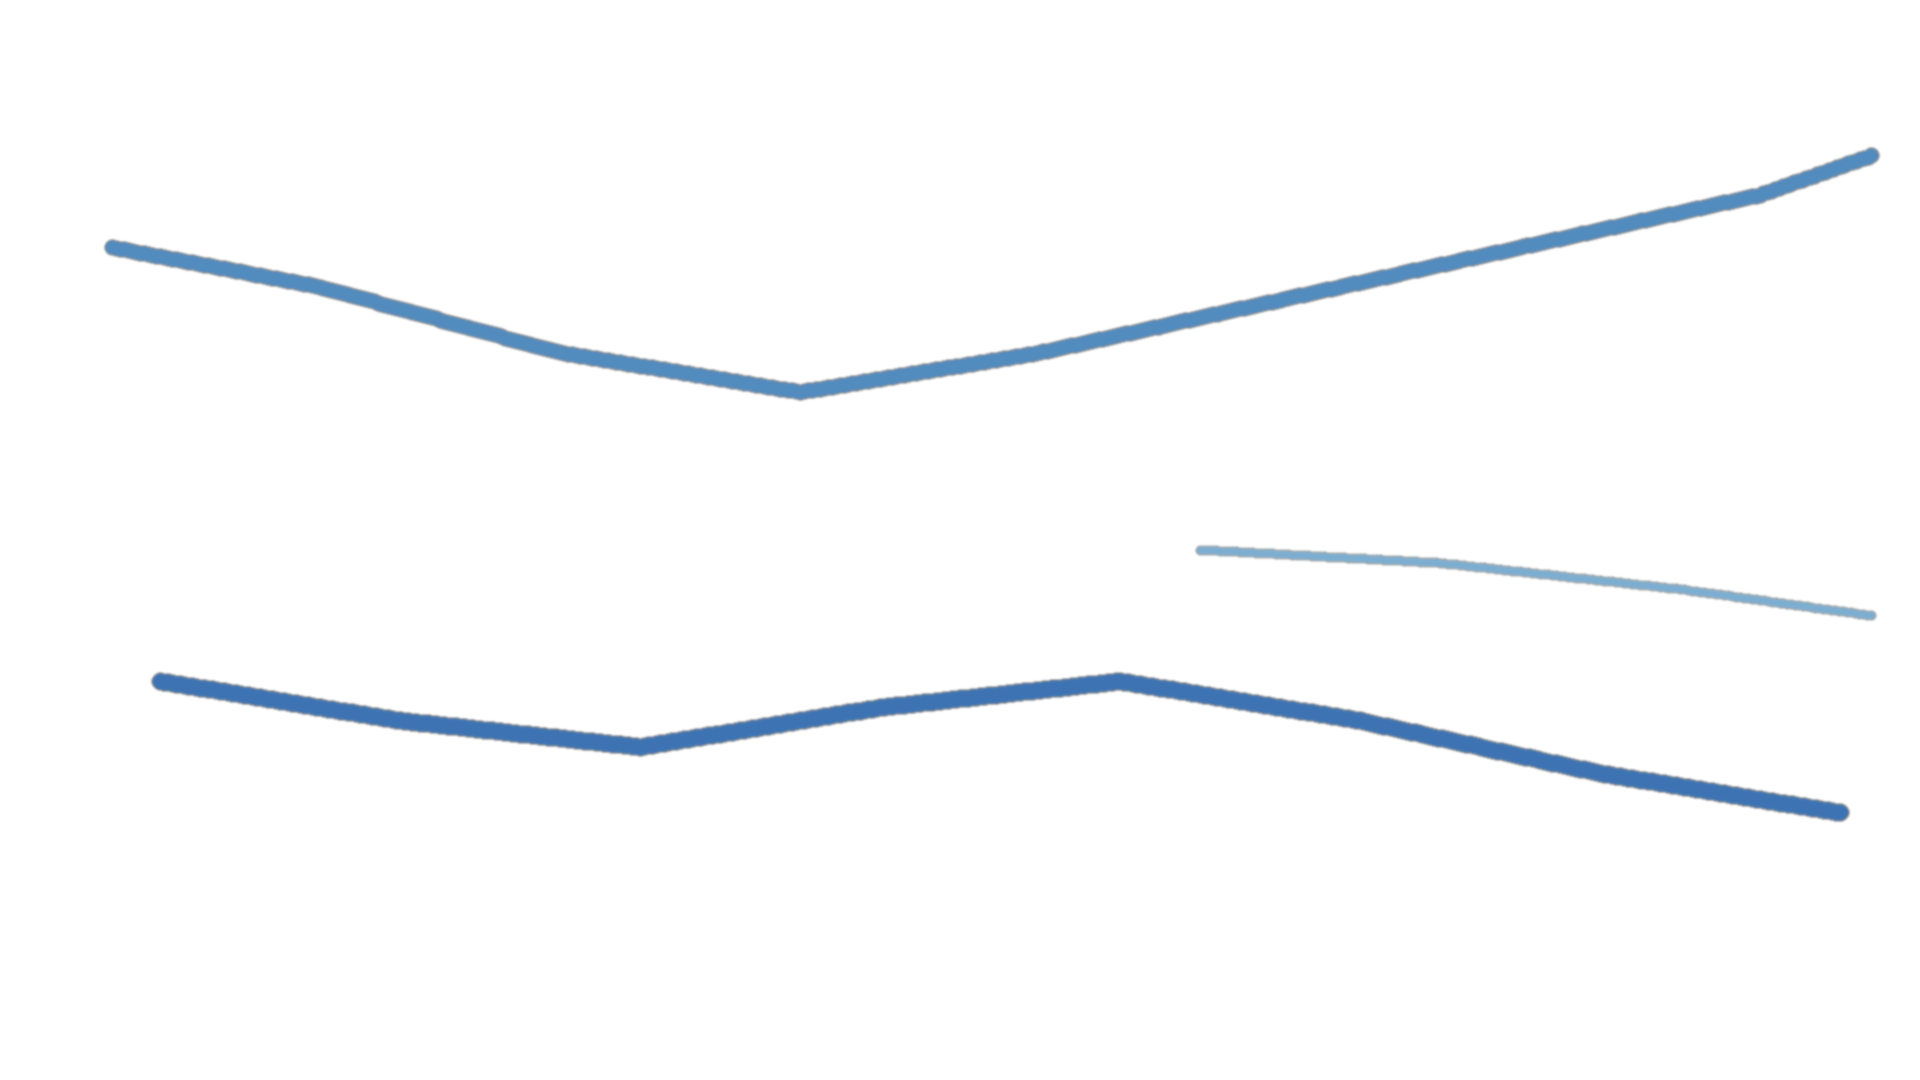
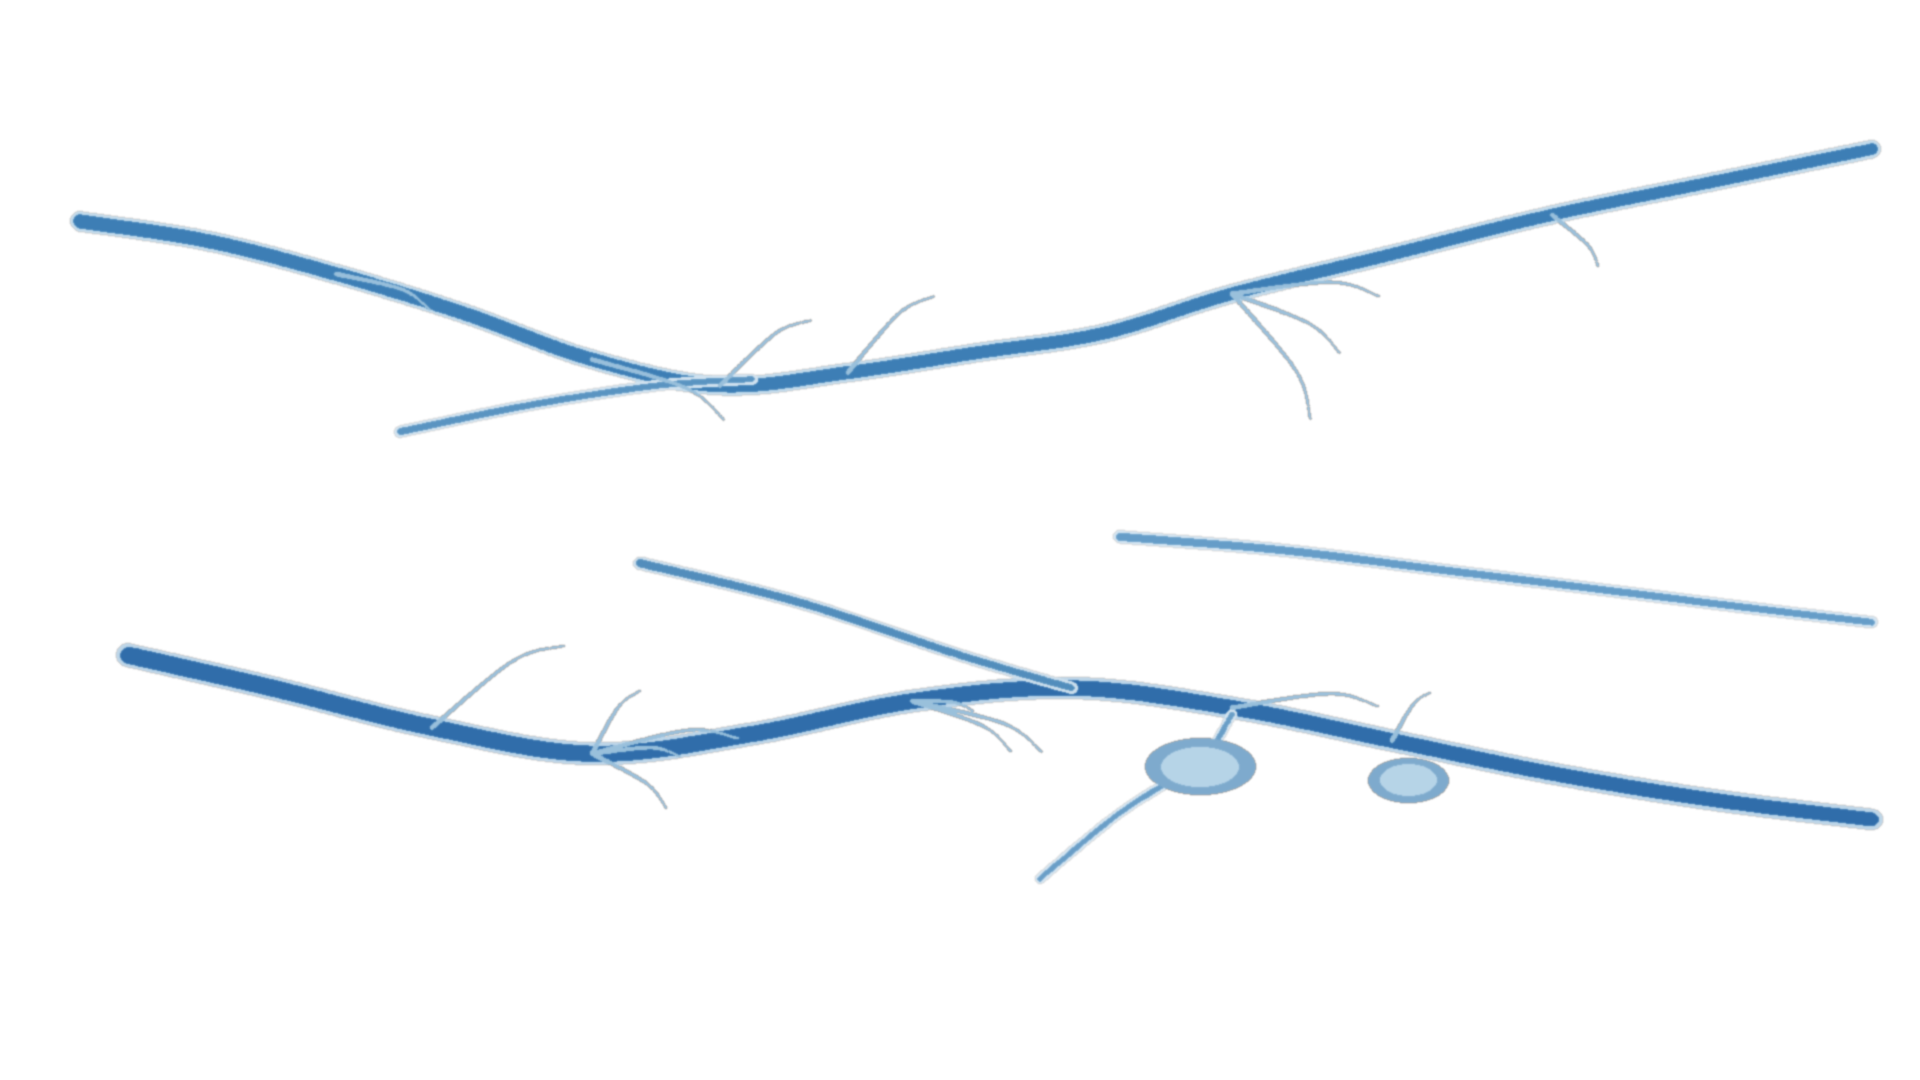
Replace HD terrain with geography pack v2.
Finer historically oriented rivers (Huang/Chang/Huai plus Wei/Han/Xiang and Dongting/Poyang-ish lakes), layered Qinling/Taihang/Nanling, and denser southern forests. Cities stay on g_CityPositions. All terrain layers remain 1920x1080 RGBA.

diff --git a/docs/hd-overworld-spec.md b/docs/hd-overworld-spec.md
@@ -3,7 +3,7 @@
 本文是 **大地图（overworld）** 的产品与技术规格。它不是 CSS 2× 放大说明书——那一层见 [hd-graphics.md](hd-graphics.md)。  
 规格与实现路径仍不替换 `dat.lib`、不伪造游戏截图。几何占位可继续用于未接线的层。
 
-**素材现状（分支内）：** `assets/hd-overworld/` 地形已换成 **史实向地理包**（见同目录 `GEOGRAPHY.md`）：西左北上，黄河偏北、长江偏南、秦岭东西向等，与引擎城格相对方位对齐，**不是**经纬度 1:1。城标仍只读 `g_CityPositions`，不随底图挪动。其它层仍是 AI 占位。**不是**步步高原作美术。  
+**素材现状（分支内）：** `assets/hd-overworld/` 地形是 **史实向地理包 v2**（见同目录 `GEOGRAPHY.md`）：西左北上，黄河/长江/淮河 + 渭水/汉水/湘水支流与洞庭/鄱阳示意湖，秦岭/太行/南岭分层，南林更密。与引擎城格相对方位对齐，**不是**经纬度 1:1。城标仍只读 `g_CityPositions`，不随底图挪动。其它层仍是 AI 占位。**不是**步步高原作美术。  
 **分支策略：本轨道只停在 `feature/hd-graphics`，在用户明确要求之前不要合入 `main`。**
 
 状态：产品方向已锁定；史实向地形已进本分支。**P0–P3 已在本分支落地（P2 partial）**：P1 城态/点选仍在；P2 在地形与城标之间画路网。邻接来自 `g_CityPositions` 的格邻接（Chebyshev≤1），不是引擎出征表。关隘只标在路中点压到河叠加处。缺口见 §8–§9 与 FEATURES.md。
@@ -266,7 +266,7 @@ P1 诚实缺口：
 
 P2 已实现：
 
-- 绘制顺序：地形（史实向 plains/mountains/rivers/forest，1920×1080）→ 路（5px 土色二次曲线）→ 城标/势力 → 城名 → 悬停/选中/入城闪（P3）。城点不随地形重绘移动
+- 绘制顺序：地形（史实向地理包 v2：plains/mountains/rivers/forest，1920×1080，河山林更细）→ 路（5px 土色二次曲线）→ 城标/势力 → 城名 → 悬停/选中/入城闪（P3）。城点不随地形重绘移动
 - 邻接优先读城对象 Exit/Link；没有则用 `adjacency.json` 里写死的边；再没有则运行时 Chebyshev≤1
 - 当前词典原版走第三条：`source=tile-neighbors`。`stroke.png`（64×16 土色）作 pattern，不行就纯色
 - 关隘：`pass.png` 只放在路中点压到河、且两端城不在河上的边上（过河）。山 overlay 误报太多，不单独标关

diff --git a/FEATURES.md b/FEATURES.md
@@ -101,7 +101,7 @@
 |------|------|------|
 | `classic` / `hd-map` 切换 | done | `localStorage['baye/overworldMode']`，默认 `classic`。首页下拉 + `pc.html` 画质条「经典地图 / HD 地图」 |
 | 1080p 容器 `#hd-overworld` | done | Canvas 2D，设计 1920×1080，窗口内 `contain`；DPR≤2 提高清 backing store |
-| 地形合成 | done | 史实向地理包：黄河偏北、长江偏南、秦岭带等，西左北上，对齐引擎城格相对方位。仍不是经纬度 1:1。城标不挪。缺文件回退椭圆大陆 |
+| 地形合成 | done | 史实向地理包 **v2**：黄河/长江/淮河 + 渭汉湘支流与洞庭/鄱阳示意湖，秦岭/太行/南岭分层，南林更密。西左北上，对齐引擎城格。仍不是经纬度 1:1。城标不挪。缺文件回退椭圆大陆 |
 | 城标四态 / 势力色 | done | empty / owned / neutral / selected 用 `cities/marker_*.png`；空城 Belong 0；己方 `Belong === g_PlayerKing+1`；他方按 `palette/factions.json` 色环 |
 | 城名标签 | done | `baye.getCityName(i)`，20px 暗底+描边，重叠时下移避让 |
 | 点击入城 | partial | 当前城读 `g_CityPos.setx/sety`。词典原版马腾已核验：西凉→安定、安定→天水均打开对应四项菜单（`tile-walk` RD）。写字段会进错城，已不用。无 `g_CityPos` 的 lib 回退邻接 BFS，未测 |

diff --git a/assets/hd-overworld/README.md b/assets/hd-overworld/README.md
@@ -1,6 +1,6 @@
 # HD Overworld 素材包
 
 - 用途：`feature/hd-graphics` 大地图表现层，**默认不合入 main**。
-- **地形**（`terrain/*.png`）：史实向地理包，见 `GEOGRAPHY.md`。1920×1080 RGBA。城标仍跟引擎格，不画死在底图上。
+- **地形**（`terrain/*.png`）：史实向地理包 **v2**（更细的河/山/林），见 `GEOGRAPHY.md`。1920×1080 RGBA。城标仍跟引擎格，不画死在底图上。
 - 城标 / 路笔刷等其它层仍是 AI 占位，不是步步高原作美术。
 - 清单对齐 `docs/hd-overworld-spec.md` §10。

diff --git a/assets/hd-overworld/GEOGRAPHY.md b/assets/hd-overworld/GEOGRAPHY.md
@@ -16,3 +16,8 @@
 
 锚点示意（引擎格，非精确经纬度）：西凉(1,0) 安定(2,1) 天水(3,2) 晋阳(5,1) 等。
 词典原版格子地图是抽象战略图，无法与真实经纬度 1:1；本层目标是「看起来像中国山河，并与城点相对方位一致」。
+
+## v2 精细化
+- 黄河/长江平滑曲线 + 渭水/汉水/湘水支流 + 洞庭/鄱阳示意湖
+- 秦岭主脉+南麓、太行、巴山、南岭、江东丘陵分层高光阴影
+- 林带：巴蜀缘/荆楚/岭南加密，江南北疏，河面处压低林层透明度
